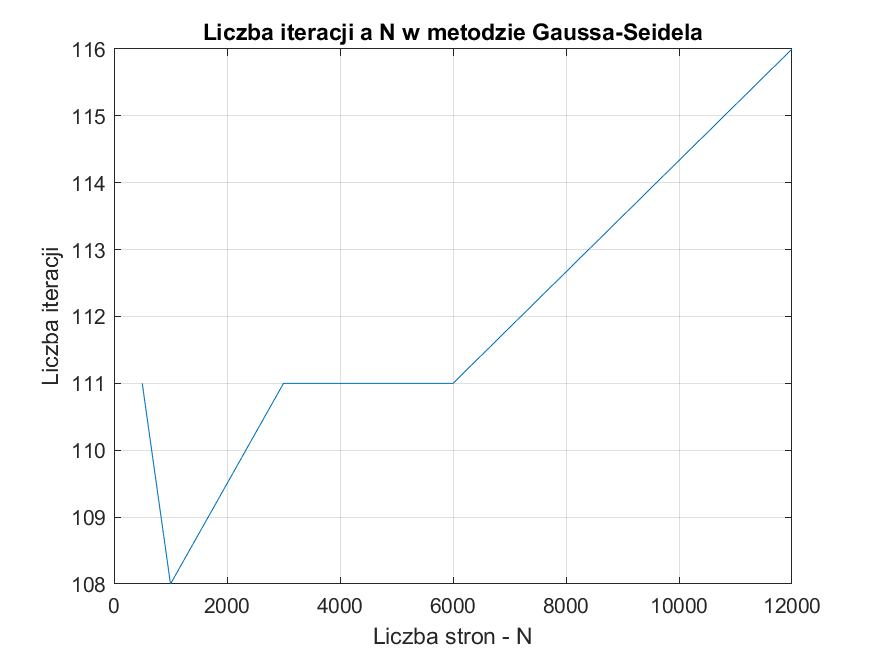
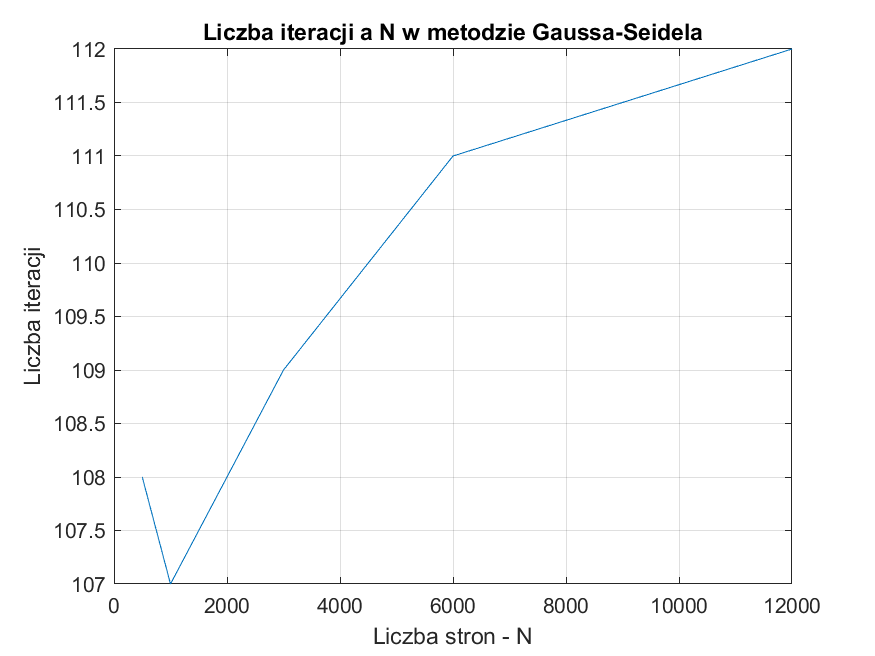
Poprwaki
Density - 10
Wykres normy residuum tylko dla N = 1000

diff --git a/Laboratorium3/lab3_F.m b/Laboratorium3/lab3_F.m
@@ -1,14 +1,13 @@
 %zadanie A
 
 NArr = [500 1000 3000 6000 12000];
-density = 3;
+density = 10;
 indeks = 184531;
 
 numberOfIterations = [];
 timesElapsed = [];
 resNormsArr = [];
-figure('Name', "Norma wektora residuum dla różnych N");
-grid on;
+
 for N = NArr
     resNorms = [];
     iterations = [];
@@ -53,15 +52,16 @@ for N = NArr
     end
     timesElapsed(end + 1) = toc;
     numberOfIterations(end+1) = counter;
-    semilogy(iterations, resNorms);
-    title("Norma residuum dla różnych N w metodzie Gaussa-Seidela");
-    xlabel("Liczba iteracji");
-    ylabel("Norma wektora residuum");
-    hold on;
+    if N == 1000
+        figure('Name', "Norma wektora residuum dla różnych N");
+        semilogy(iterations, resNorms);
+        grid on;
+        title("Norma residuum dla różnych N w metodzie Gaussa-Seidela");
+        xlabel("Liczba iteracji");
+        ylabel("Norma wektora residuum");
+        saveas(gcf, "zadF_184531_3.png")
+    end
 end
-grid on;
-saveas(gcf, "zadF_184531_3.png")
-hold off;
 figure('Name', "Liczba iteracji");
 plot(NArr, numberOfIterations);
 grid on;

diff --git a/Laboratorium3/lab3_E.m b/Laboratorium3/lab3_E.m
@@ -1,13 +1,13 @@
 %zadanie A
 
 NArr = [500 1000 3000 6000 12000];
-density = 3;
+density = 10;
 indeks = 184531;
 
 numberOfIterations = [];
 timesElapsed = [];
 resNormsArr = [];
-figure('Name', "Norma wektora residuum dla różnych N");
+
 for N = NArr
     resNorms = [];
     iterations = [];
@@ -52,15 +52,17 @@ for N = NArr
     end
     timesElapsed(end + 1) = toc;
     numberOfIterations(end+1) = counter;
-    semilogy(iterations, resNorms);
-    title("Norma residuum dla różnych N w metodzie Jacobi'ego");
-    xlabel("Liczba iteracji");
-    ylabel("Norma wektora residuum");
-    hold on;
+    if N == 1000
+        figure('Name', "Norma wektora residuum");
+        semilogy(iterations, resNorms);
+        grid on
+        title("Norma residuum dla różnych N w metodzie Jacobi'ego dla N = 1000");
+        xlabel("Liczba iteracji");
+        ylabel("Norma wektora residuum");
+        saveas(gcf, "zadE_184531_3.png")
+    end
 end
-grid on;
-saveas(gcf, "zadE_184531_3.png")
-hold off;
+
 figure('Name', "Liczba iteracji");
 plot(NArr, numberOfIterations);
 grid on;
